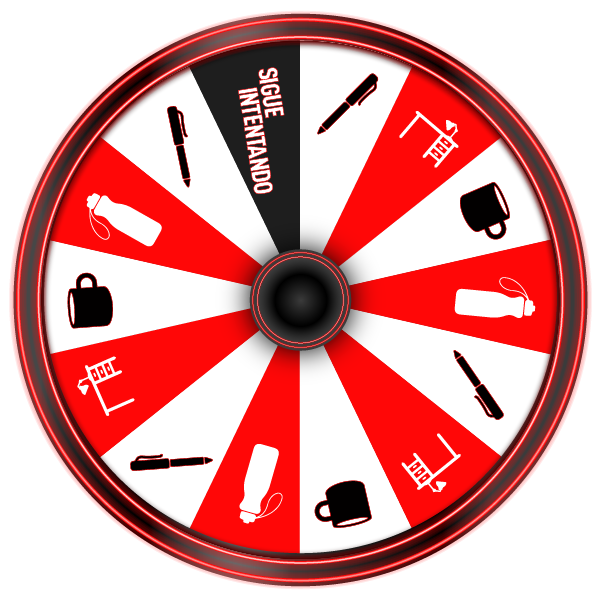
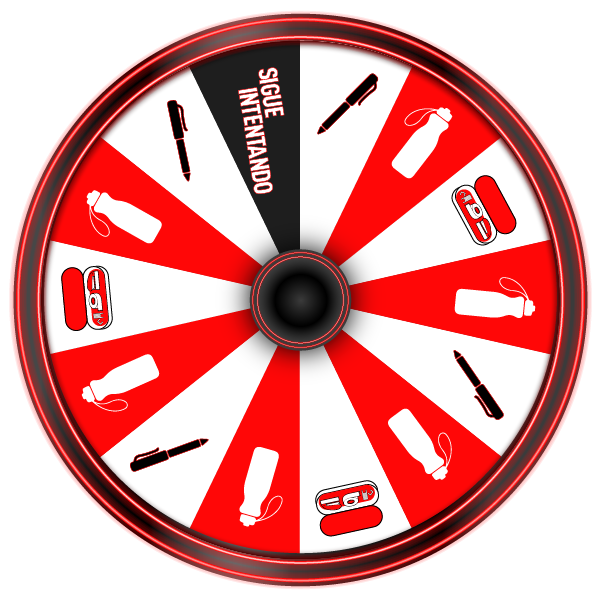
Cambios última hora Claro ruleta

diff --git a/public/js/app.js b/public/js/app.js
@@ -8,7 +8,13 @@ let bars = [];
 // Grados de cada división de la ruleta
 let divisiones = 14;
 // let premios = ['1', '2', '3', '4', '5'];
-let premios = ['Botilito', 'Lapiceros', 'Set Escritorios', 'Mug', 'Botilito', 'Lapiceros', 'Set Escritorios', 'Mug', 'Botilito', 'Lapiceros', 'Repetir', 'Lapiceros', 'Set Escritorios', 'Mug'];
+let premios = [
+    'Botilito', 'Lapiceros', 'Botilito',
+    'Kit escritorio', 'Botilito', 'Lapiceros',
+    'Botilito', 'Kit escritorio', 'Botilito',
+    'Lapiceros', 'Repetir',
+    'Lapiceros', 'Botilito', 'Kit escritorio',
+];
 let rotate = false;
 let spinButton;
 let fireworks;
@@ -114,7 +120,7 @@ class MainScene extends Phaser.Scene {
                     width: 400,
                     imageUrl: "./assets/logo_claro_empresas_01.png",
                     imageWidth: 150,
-                    imageHeight: 100,
+                    imageHeight: 100, 
                     padding: '1em',
                     background: "rgba(255,255,255, 1) url(./assets/fondo_registro.jpg) left top / cover no-repeat"
                 })
